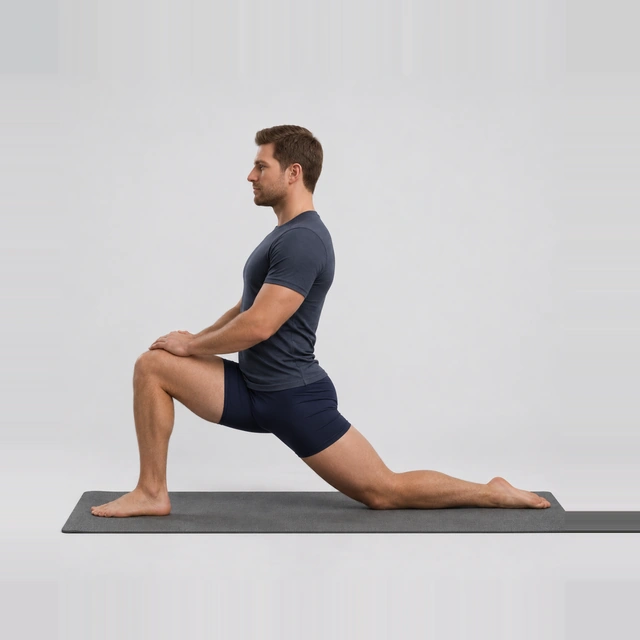
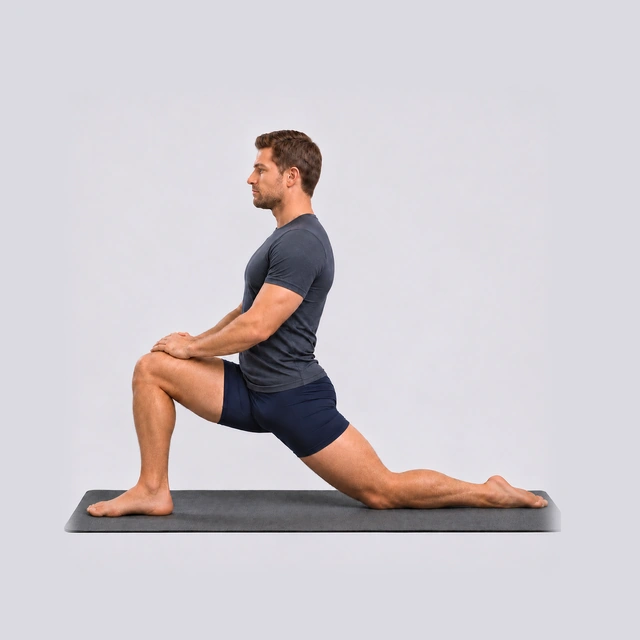
App update fd21ebdf451d: Low Lunge picture v6 (Chris's corrected feet) replaces v3; new picture cache version 25293428
Claude-Session: https://claude.ai/code/session_01VNuq4d9RwdVpz2hhqNG4nu

diff --git a/meflex-site/meflex-site/sw.js b/meflex-site/meflex-site/sw.js
@@ -5,7 +5,7 @@
 // those go to the network exactly as without it. It sends nothing of its own except fetching FILES from the site.
 // It never stores personal data: history, routines, settings and answers live in the page's own storage, not here.
 // A new version waits until the person taps Reload ("A new version is ready"); it never takes over by itself.
-const VERSION = '988277a8e2c8';
+const VERSION = 'fd21ebdf451d';
 const FILES = ["index.html", "manifest.webmanifest", "apple-touch-icon.png", "icon-192.png", "icon-512.png"];
 // Nov 15 (recorded voice on the website): every recording the page may ask for (voice/manifest.json and voice/<key>.m4a).
 // None is fetched at install (4.2 MB). Each is kept the first time the page fetches it: the list when the Voice or coach
@@ -15,7 +15,7 @@ const VOICE = ["voice/manifest.json", "voice/001278fc.m4a", "voice/0012bbdf.m4a"
 // fetched at install (that could be many megabytes). Each one is kept the first time the page shows it, and the page
 // asks for a routine's player pictures when that routine is opened, so a routine started with a signal still has them
 // with none. They live in their own cache, which survives app updates; only pictures no longer listed are removed.
-const PICS = ["figures/lunge-192.webp?v=d2c2ab13", "figures/lunge-640.webp?v=d2c2ab13", "figures/lunge-960.webp?v=d2c2ab13"];
+const PICS = ["figures/lunge-192.webp?v=25293428", "figures/lunge-640.webp?v=25293428", "figures/lunge-960.webp?v=25293428"];
 const BASE = self.registration.scope; // the folder sw.js lives in, e.g. https://example.github.io/meflex/meflex-site/meflex-site/
 // Hardening: cache names carry a tag of this folder, so another copy of MeFlex on the same address keeps its own offline
 // files. Caches from before this change (meflex-offline-<12 hex>) are cleared once.

diff --git a/meflex-site/meflex-site/index.html b/meflex-site/meflex-site/index.html
@@ -13,7 +13,7 @@
 <link rel="icon" type="image/png" sizes="192x192" href="icon-192.png">
 <link rel="manifest" href="manifest.webmanifest">
 <meta name="meflex-sw" content="sw.js">
-<meta name="meflex-version" content="988277a8e2c8">
+<meta name="meflex-version" content="fd21ebdf451d">
 <meta name="meflex-voice" content="voice/">
 <title>MeFlex</title>
 <meta name="claude:viewport-fit-sides" content="cover">
@@ -1518,7 +1518,7 @@ Object.entries(KID_STEPS).forEach(([id, steps]) => { const st = STRETCHES.find(s
 const SUPPORTED = ['groinhold', 'ankledf', 'postwall', 'chairfig4', 'chairham', 'seatedtwist', 'necktilt', 'levator', 'chintuck', 'neckturn', 'calf', 'doorway', 'crossbody', 'chestclasp', 'bandchest'];
 STRETCHES.forEach(s => { s.supported = SUPPORTED.includes(s.id); });
 const BY_ID = Object.fromEntries(STRETCHES.map(s => [s.id, s]));
-const PICS = {"lunge":{"v":"d2c2ab13","loop":null}};
+const PICS = {"lunge":{"v":"25293428","loop":null}};
 const PIC_W = [192, 640, 960];
 let PIC_BASE = 'figures/';
 
